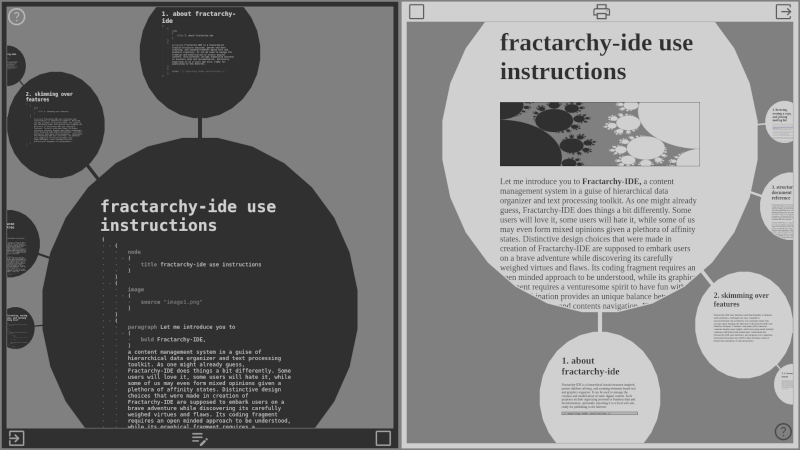
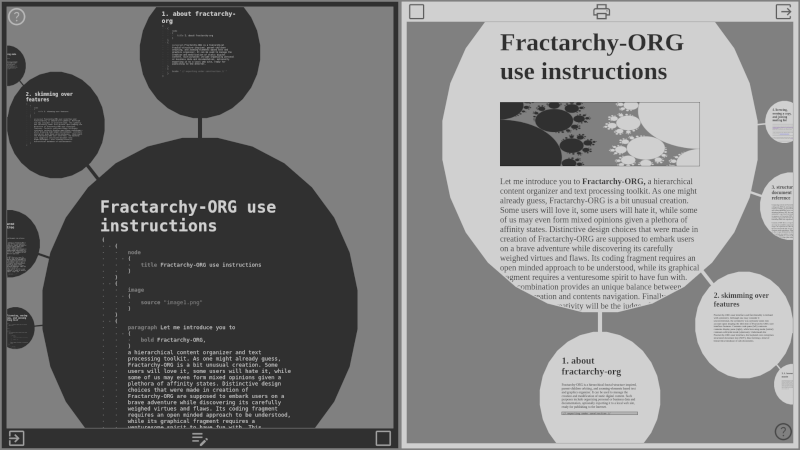
Add files via upload

diff --git a/index.html b/index.html
@@ -89,7 +89,7 @@
             <svg xmlns="http://www.w3.org/2000/svg" height="48" width="48"><title>menu</title><path fill="rgb(208,208,208, 0.2)" d="M5.8 36.35v-3.4h36.4v3.4Zm0-10.65v-3.4h36.4v3.4Zm0-10.65v-3.4h36.4v3.4Z"/></svg>
         </a-->
         <a id="btnupload" style="position: absolute; color: rgb(208,208,208);">
-            <svg id="svginput" xmlns="http://www.w3.org/2000/svg" height="48" width="48" style="display:inline;"><title>input</title><path fill="rgb(208,208,208)" d="M9.1 42.3q-1.35 0-2.375-1.025T5.7 38.9V28.7h3.4v10.2h29.8V9H9.1v10.3H5.7V9q0-1.4 1.025-2.4t2.375-1h29.8q1.4 0 2.4 1t1 2.4v29.9q0 1.35-1 2.375T38.9 42.3ZM20.8 34l-2.5-2.5 5.75-5.8H5.7v-3.4h18.35l-5.75-5.8 2.5-2.5 10.05 10Z"/></svg>
+            <svg id="svginput" xmlns="http://www.w3.org/2000/svg" height="48" width="48" style="display:inline;"><title>input from file</title><path fill="rgb(208,208,208)" d="M9.1 42.3q-1.35 0-2.375-1.025T5.7 38.9V28.7h3.4v10.2h29.8V9H9.1v10.3H5.7V9q0-1.4 1.025-2.4t2.375-1h29.8q1.4 0 2.4 1t1 2.4v29.9q0 1.35-1 2.375T38.9 42.3ZM20.8 34l-2.5-2.5 5.75-5.8H5.7v-3.4h18.35l-5.75-5.8 2.5-2.5 10.05 10Z"/></svg>
             <svg id="svglosel" xmlns="http://www.w3.org/2000/svg" height="48" width="48" style="display:none"><title>cancel</title><path fill="rgb(208,208,208)" d="m16.6 33.6 7.4-7.4 7.4 7.4 2.2-2.2-7.4-7.4 7.4-7.4-2.2-2.2-7.4 7.4-7.4-7.4-2.2 2.2 7.4 7.4-7.4 7.4ZM24 44.3q-4.15 0-7.875-1.6-3.725-1.6-6.475-4.35Q6.9 35.6 5.3 31.9 3.7 28.2 3.7 24t1.6-7.925q1.6-3.725 4.35-6.45Q12.4 6.9 16.1 5.3T24 3.7q4.2 0 7.925 1.6 3.725 1.6 6.45 4.325T42.7 16.05q1.6 3.7 1.6 7.95 0 4.2-1.6 7.9t-4.325 6.45Q35.65 41.1 31.95 42.7q-3.7 1.6-7.95 1.6Zm0-3.4q7.05 0 11.975-4.95T40.9 24q0-7.05-4.925-11.975T24 7.1q-7 0-11.95 4.925Q7.1 16.95 7.1 24q0 7 4.95 11.95Q17 40.9 24 40.9ZM24 24Z"/></svg>
             <svg id="svgkeepl" xmlns="http://www.w3.org/2000/svg" height="48" width="48" style="display:none"><title>accept changes</title><path fill="rgb(208,208,208)" d="M21.05 33.3 35.3 19l-2.55-2.5-11.7 11.75-5.9-5.9-2.5 2.5Zm2.95 11q-4.15 0-7.875-1.6-3.725-1.6-6.475-4.35Q6.9 35.6 5.3 31.9 3.7 28.2 3.7 24t1.6-7.925q1.6-3.725 4.35-6.45Q12.4 6.9 16.1 5.3T24 3.7q4.2 0 7.925 1.6 3.725 1.6 6.45 4.325T42.7 16.05q1.6 3.7 1.6 7.95 0 4.2-1.6 7.9t-4.325 6.45Q35.65 41.1 31.95 42.7q-3.7 1.6-7.95 1.6Zm0-3.4q7.05 0 11.975-4.95T40.9 24q0-7.05-4.925-11.975T24 7.1q-7 0-11.95 4.925Q7.1 16.95 7.1 24q0 7 4.95 11.95Q17 40.9 24 40.9ZM24 24Z"/></svg>
         </a>
@@ -112,7 +112,7 @@
             <svg id="fold" xmlns="http://www.w3.org/2000/svg" height="48" width="48" style="visibility: hidden;"><title>fold</title><path fill="rgb(48,48,48,0.2)" d="m17.15 40.3-2.45-2.45 9.3-9.3 9.3 9.3-2.45 2.45L24 33.45ZM24 19.45l-9.3-9.3 2.45-2.45L24 14.55l6.85-6.85 2.45 2.45Z"/></svg>
         </a>
         <a id="btndownload" style="position: absolute; color: rgb(48,48,48);">
-            <svg id="svgoutput" xmlns="http://www.w3.org/2000/svg" height="48" width="48" style="display:inline;"><title>output</title><path fill="rgb(48,48,48)" d="M9.1 42.3q-1.35 0-2.375-1.025T5.7 38.9V9.1q0-1.4 1.025-2.4t2.375-1h29.8q1.4 0 2.4 1t1 2.4v4.4h-3.4V9.1H9.1v29.8h29.8v-4.4h3.4v4.4q0 1.35-1 2.375T38.9 42.3Zm25.4-8.85-2.35-2.4 5.3-5.35H18.9v-3.4h18.55l-5.3-5.35 2.35-2.4L43.95 24Z"/></svg>
+            <svg id="svgoutput" xmlns="http://www.w3.org/2000/svg" height="48" width="48" style="display:inline;"><title>output to file</title><path fill="rgb(48,48,48)" d="M9.1 42.3q-1.35 0-2.375-1.025T5.7 38.9V9.1q0-1.4 1.025-2.4t2.375-1h29.8q1.4 0 2.4 1t1 2.4v4.4h-3.4V9.1H9.1v29.8h29.8v-4.4h3.4v4.4q0 1.35-1 2.375T38.9 42.3Zm25.4-8.85-2.35-2.4 5.3-5.35H18.9v-3.4h18.55l-5.3-5.35 2.35-2.4L43.95 24Z"/></svg>
             <svg id="svgkeepr" xmlns="http://www.w3.org/2000/svg" height="48" width="48" style="display:none"><title>print document</title><path fill="rgb(48,48,48)" d="M21.05 33.3 35.3 19l-2.55-2.5-11.7 11.75-5.9-5.9-2.5 2.5Zm2.95 11q-4.15 0-7.875-1.6-3.725-1.6-6.475-4.35Q6.9 35.6 5.3 31.9 3.7 28.2 3.7 24t1.6-7.925q1.6-3.725 4.35-6.45Q12.4 6.9 16.1 5.3T24 3.7q4.2 0 7.925 1.6 3.725 1.6 6.45 4.325T42.7 16.05q1.6 3.7 1.6 7.95 0 4.2-1.6 7.9t-4.325 6.45Q35.65 41.1 31.95 42.7q-3.7 1.6-7.95 1.6Zm0-3.4q7.05 0 11.975-4.95T40.9 24q0-7.05-4.925-11.975T24 7.1q-7 0-11.95 4.925Q7.1 16.95 7.1 24q0 7 4.95 11.95Q17 40.9 24 40.9ZM24 24Z"/></svg>
             <svg id="svgloser" xmlns="http://www.w3.org/2000/svg" height="48" width="48" style="display:none"><title>cancel</title><path fill="rgb(48,48,48)" d="m16.6 33.6 7.4-7.4 7.4 7.4 2.2-2.2-7.4-7.4 7.4-7.4-2.2-2.2-7.4 7.4-7.4-7.4-2.2 2.2 7.4 7.4-7.4 7.4ZM24 44.3q-4.15 0-7.875-1.6-3.725-1.6-6.475-4.35Q6.9 35.6 5.3 31.9 3.7 28.2 3.7 24t1.6-7.925q1.6-3.725 4.35-6.45Q12.4 6.9 16.1 5.3T24 3.7q4.2 0 7.925 1.6 3.725 1.6 6.45 4.325T42.7 16.05q1.6 3.7 1.6 7.95 0 4.2-1.6 7.9t-4.325 6.45Q35.65 41.1 31.95 42.7q-3.7 1.6-7.95 1.6Zm0-3.4q7.05 0 11.975-4.95T40.9 24q0-7.05-4.925-11.975T24 7.1q-7 0-11.95 4.925Q7.1 16.95 7.1 24q0 7 4.95 11.95Q17 40.9 24 40.9ZM24 24Z"/></svg>
         </a>

diff --git a/README.md b/README.md
@@ -1,4 +1,4 @@
-# Fractarchy-IDE
+# Fractarchy-ORG
 
 (v 0.1 - alpha)
 
@@ -10,13 +10,13 @@
 > 
 > ![](media/socmedia.png)
 > 
-> Fractarchy-IDE is a hierarchical content organizer that tries to amplify the simplicity of coding in a fun and exciting direction of composing visual contents. This project bundles a brand new content markup language with a brand new visual interface.
+> Fractarchy-ORG is a hierarchical content organizer that tries to amplify the simplicity of coding in a fun and exciting direction of composing visual contents. This project bundles a brand new content markup language with a brand new visual interface.
 > 
 > Coders combine the heart of a playful child with the wisdom of an experienced elderly. Sure, there is a certain value in all the WYSIWYG tools around, but the most of them miss that mystical aura of having a full control at our fingertips. Something magical happens at the moment when a code begins to exhibit intended behavior, and capturing that valuable moment is something intended to be conveyed to users of this project.
 > 
 > Visual designers combine the chaotic art of creativity with the intentional art of applicability. Personal preferences may play an important role in this process, but it seems there may exist a kind of universal phenomenon worth of converging about: the symmetry. That is why visual interface of this project tries to resemble a coherent system of input/output duality, hoping to get closer to igniting designer artistry.
 > 
-> Using Fractarchy-IDE, we uncommonly combine coding with visual designing. Keep your intention safe in the comfort zone, but keep your heart open. Keep your focus on actual usability, but keep your creativity unleashed. Give Fractarchy-IDE a chance, and take a journey of coding visual contents using this unusual creation inspired from another world. You may have already heard of that world. It is called imagination. And with a little luck, that world can become awesome.
+> Using Fractarchy-ORG, we uncommonly combine coding with visual designing. Keep your intention safe in the comfort zone, but keep your heart open. Keep your focus on actual usability, but keep your creativity unleashed. Give Fractarchy-ORG a chance, and take a journey of coding visual contents using this unusual creation inspired from another world. You may have already heard of that world. It is called imagination. And with a little luck, that world can become awesome.
 
 ## actual screenshots
         
@@ -26,7 +26,7 @@
 
 ## use cases
 
-Fractarchy-IDE **is suited** to be used as:
+Fractarchy-ORG **is suited** to be used as:
 
 - static content pages creation platform
 - mind map planner
@@ -37,13 +37,13 @@ Fractarchy-IDE **is suited** to be used as:
 - multi-purpose documentation system
 - ...
 
-Fractarchy-IDE **is not suited** to be used for:
+Fractarchy-ORG **is not suited** to be used for:
 
 - dynamic content pages creation
 
 ## online test
 
-Visit [https://contrast-zone.github.io/fractarchy-ide/](https://contrast-zone.github.io/fractarchy-ide/).
+Visit [https://contrast-zone.github.io/fractarchy-org/](https://contrast-zone.github.io/fractarchy-org/).
 
 ## installing on local computer
 
